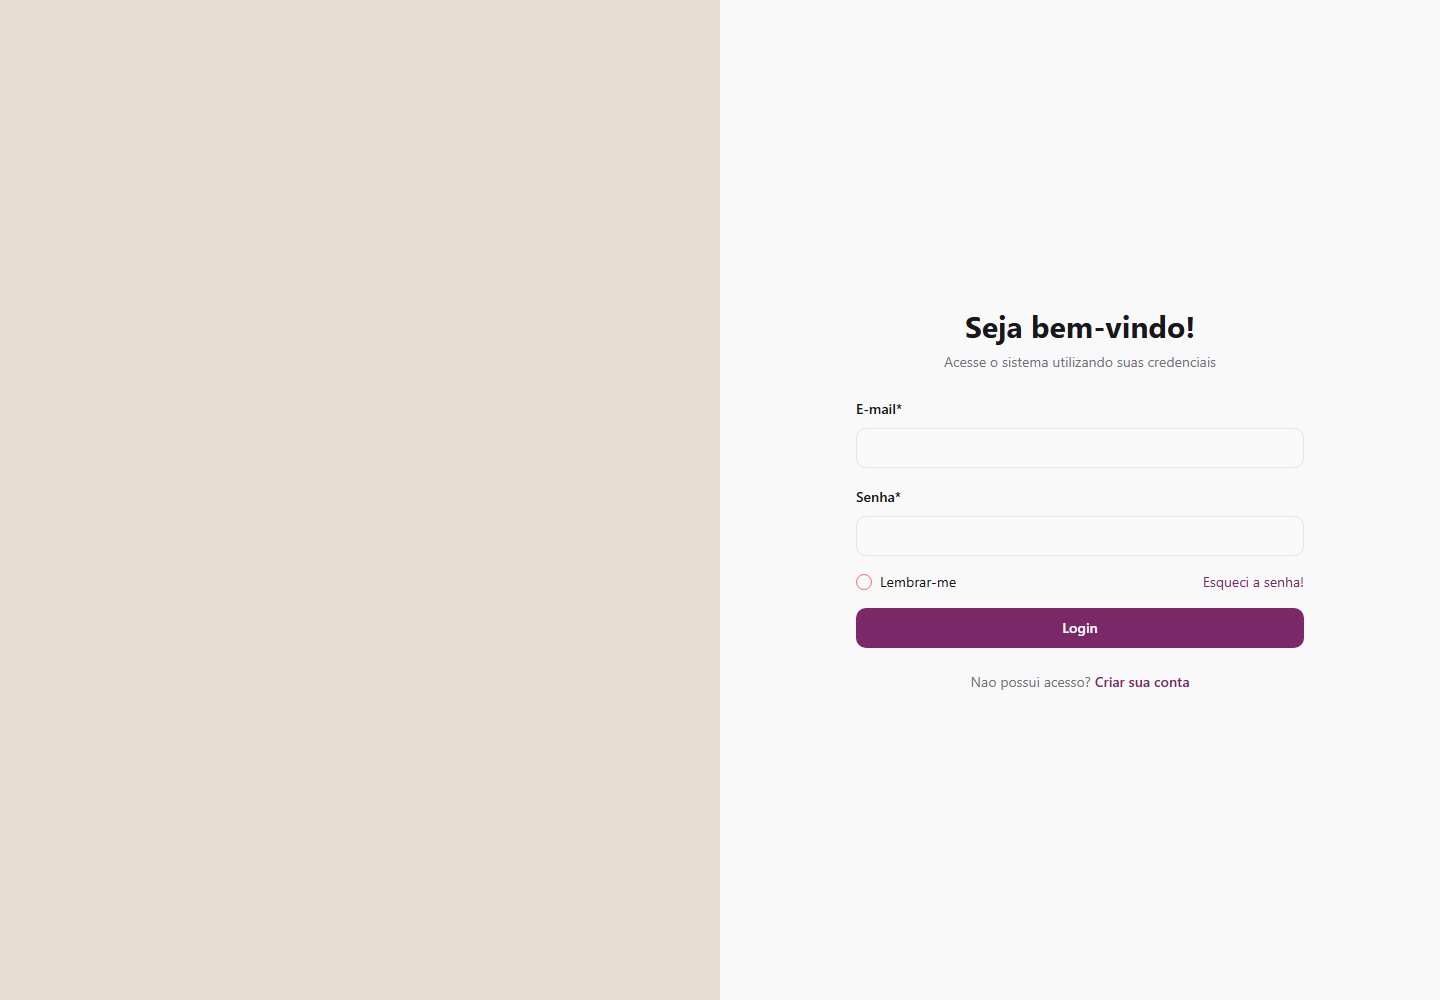
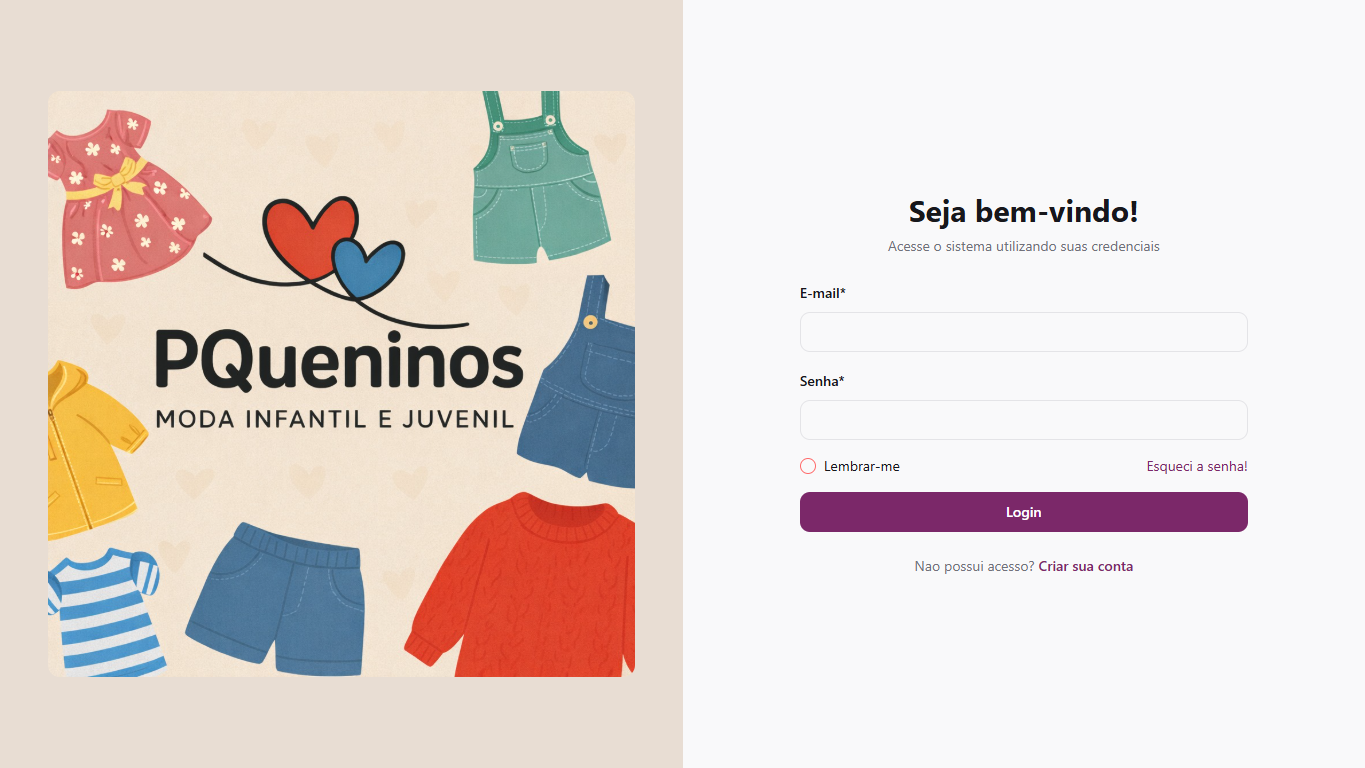
Adiciona usuario empresa e atualiza prints

diff --git a/src/components/ClientPortalRoute.tsx b/src/components/ClientPortalRoute.tsx
@@ -10,6 +10,7 @@ export const ClientPortalRoute = ({ children }: { children: React.ReactNode }) =
   const { userRole, user, loading } = useAuth();
   const location = useLocation();
   const isCompanyPreview = new URLSearchParams(location.search).get('preview') === 'empresa';
+  const canUseCompanyPreview = userRole === 'admin' || userRole === 'employee';
 
   if (loading) {
     return (
@@ -27,7 +28,11 @@ export const ClientPortalRoute = ({ children }: { children: React.ReactNode }) =
     return <Navigate to="/dashboard" replace />;
   }
 
-  if (userRole === 'super_admin' && !isCompanyPreview) {
+  if ((userRole === 'admin' || userRole === 'employee') && isCompanyPreview && canUseCompanyPreview) {
+    return <>{children}</>;
+  }
+
+  if (userRole === 'super_admin') {
     return <Navigate to="/admin" replace />;
   }
 

diff --git a/src/components/ClientLayout.tsx b/src/components/ClientLayout.tsx
@@ -9,12 +9,14 @@ import { useStoreConfig } from '@/hooks/useStoreConfig';
 
 export const ClientLayout = ({ children }: { children: React.ReactNode }) => {
   const navigate = useNavigate();
-  const { user, signOut } = useAuth();
+  const { user, userRole, signOut } = useAuth();
   const { config } = useStoreConfig();
   const location = useLocation();
   const isMobile = useIsMobile();
   const [sidebarExpanded, setSidebarExpanded] = useState(false);
-  const isCompanyPreview = new URLSearchParams(location.search).get('preview') === 'empresa';
+  const isCompanyPreview =
+    new URLSearchParams(location.search).get('preview') === 'empresa' &&
+    (userRole === 'admin' || userRole === 'employee');
   const previewSearch = isCompanyPreview ? '?preview=empresa' : '';
 
   const sidebarCollapsed = isMobile && !sidebarExpanded;

diff --git a/src/pages/client/ClientProductDetails.tsx b/src/pages/client/ClientProductDetails.tsx
@@ -63,8 +63,10 @@ const ClientProductDetails = () => {
   const location = useLocation();
   const { addItems } = useCart();
   const { toast } = useToast();
-  const { user } = useAuth();
-  const isCompanyPreview = new URLSearchParams(location.search).get('preview') === 'empresa';
+  const { user, userRole } = useAuth();
+  const isCompanyPreview =
+    new URLSearchParams(location.search).get('preview') === 'empresa' &&
+    (userRole === 'admin' || userRole === 'employee');
 
   const [product, setProduct] = useState<Product | null>(null);
   const [reviews, setReviews] = useState<ProductReview[]>([]);

diff --git a/README.md b/README.md
@@ -32,15 +32,15 @@ Senha: BrisaTeste123
 Perfil: cliente
 ```
 
-Com o mesmo usuario de teste, tambem e possivel validar a versao de teste da empresa para o portal do cliente:
+Usuario de teste da empresa:
 
 ```txt
-Perfil: empresa / previa do portal
-URL local: http://localhost:8080/client/products?preview=empresa
-URL temporaria: https://nexus-prime-build.onrender.com/client/products?preview=empresa
+Email: [email redacted]
+Senha: EmpresaTeste123
+Perfil: administrador da empresa
 ```
 
-Nesse modo, a empresa consegue navegar pelo portal do cliente e conferir produtos, imagens e detalhes sem enviar uma compra real. Usuarios internos tambem podem acessar pelo menu lateral em **Previa Cliente**.
+Ao entrar com o usuario da empresa, o sistema redireciona para o painel administrativo. Pelo menu lateral em **Previa Cliente**, o administrador consegue validar o portal do cliente sem finalizar compra real.
 
 ## Prints do sistema
 